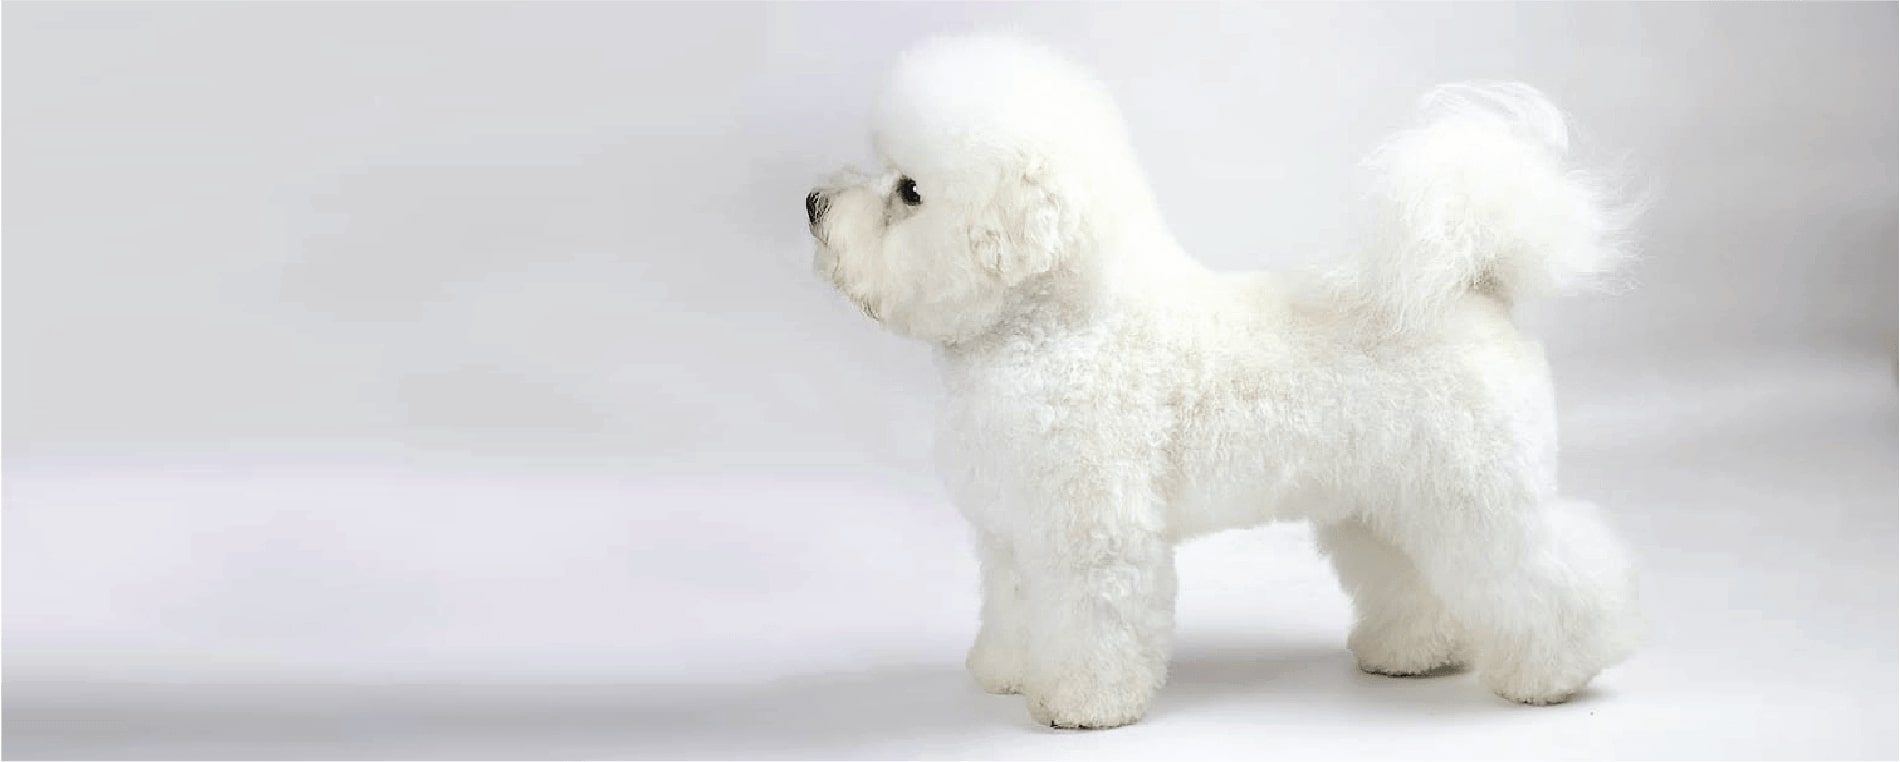
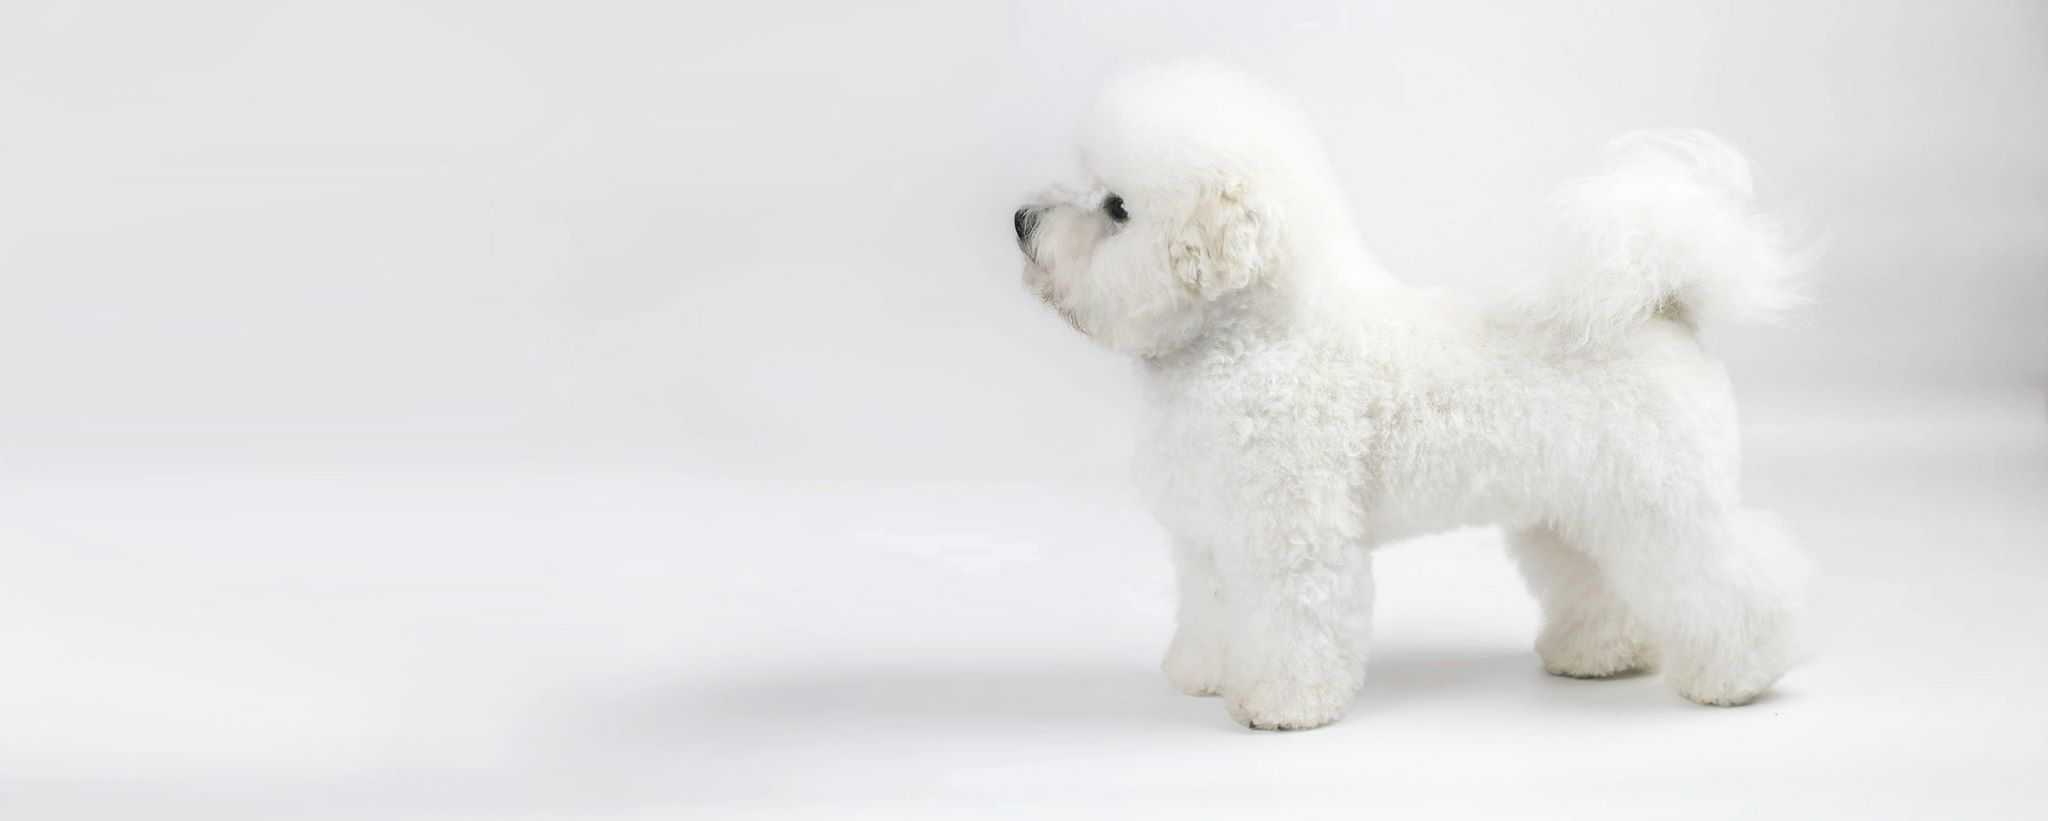
Update main page wallpaper

diff --git a/src/templates/index-page.js b/src/templates/index-page.js
@@ -2,12 +2,14 @@ import React from 'react'
 import PropTypes from 'prop-types'
 import { Link, graphql } from 'gatsby'
 import styled, { keyframes } from "styled-components"
+import { CSSTransition, TransitionGroup } from 'react-transition-group';
 
 import Layout from '../components/Layout'
 import Features from '../components/Features'
 import BlogRoll from '../components/BlogRoll'
 
 import wallpaper from '../img/wallpaper.jpg'
+import wallpaper_mobile from '../img/wallpaper_mobile.jpg'
 import federations from '../img/federations.png'
 
 const WallpaperContainer = styled.div`
@@ -22,8 +24,10 @@ const WallpaperContainer = styled.div`
   grid-template-rows: 52% 29% 18%;
   grid-template-areas: "federationsContainer . ." "headerMain headerMain headerMain" " scrollDown scrollDown scrollDown";
   grid-template-columns: 50% 35% 15%;
+  background-image: url(${wallpaper_mobile});
   @media only screen and (min-width: 1088px) {
-    grid-template-rows: 35% 40% 25%;
+    grid-template-rows: 40% 34% 21%;
+    background-image: url(${wallpaper});
   }
 `
 
@@ -55,14 +59,31 @@ const SpanBigSlim = styled.span`
   position: relative;
   font-weight: 200;
   color: #339933;
-  font-size: 1.9em;
+  font-size: 1.95em;
   letter-spacing: 0.9px;
+  @media only screen and (min-width: 1088px) {
+    font-size: 2.15em;
+  }
 `
 const SpanStyled = styled.span`
   letter-spacing: 1px;
   left: -1px;
   font-size: 1em;
   font-weight: ${props => props.weight};
+  white-space: pre;
+  @media only screen and (min-width: 1088px) {
+    white-space: normal;
+    font-size: 1.1em;
+  }
+`
+
+const SpanStyledBottom = styled(SpanStyled)`
+  position: relative;
+  top: -15px;
+  @media only screen and (min-width: 1088px) {
+    top: 0px;
+    left: 4px;
+  }
 `
 
 const HeaderMain = styled.h1`
@@ -77,6 +98,7 @@ const HeaderMain = styled.h1`
   background: radial-gradient(circle at center,hsla(0,0%,98%,.9),transparent 100%);
   align-self: end;
   text-align: center;
+  white-space: pre-wrap;
   &:strong {
     color: #339933 !important;
   }
@@ -154,6 +176,12 @@ const SectionMain = styled.section`
 
 `
 
+let bichon = false;
+
+setTimeout(() => {
+  bichon = true;
+}, 5000)
+
 export const IndexPageTemplate = ({
   image,
   title,
@@ -164,16 +192,23 @@ export const IndexPageTemplate = ({
   intro,
 }) => (
   <div>
-    <WallpaperContainer style={{
-        backgroundImage: `url(${wallpaper})`
-      }}>
+    <WallpaperContainer>
       <FederationsContainer>
         <ImgFederations src={federations}  />
       </FederationsContainer>
       <HeaderMain>
         <SpanBigSlim>Petit & Blanc</SpanBigSlim><br/>
-        <SpanStyled weight="100">hodowla psów rasowych</SpanStyled><br/>
-        <SpanStyled weight="400" style={{position: 'relative', top: -15}}>bichon frise</SpanStyled>
+        <SpanStyled weight="100">
+        {
+          `hodowla psów rasowych`
+        }
+        </SpanStyled>
+            <SpanStyledBottom weight="400">
+            {
+          `
+bichon frise`
+            }
+            </SpanStyledBottom>
       </HeaderMain>
       <ScrollDown onClick={() => {
         const windowHeight = window.innerHeight;

diff --git a/src/components/all.sass b/src/components/all.sass
@@ -163,3 +163,17 @@ html, body
     color: white !important
   &:hover
     background-color: transparent !important
+
+.slide-right-enter
+  transform: translateX(50%)
+
+.slide-right-enter-active
+  transform: translateX(0px)
+  transition: transform 150ms linear
+
+.slide-right-exit
+  transform: translateX(0px)
+
+.slide-right-exit-active
+  transform: translateX(50%)
+  transition: transform 150ms linear
